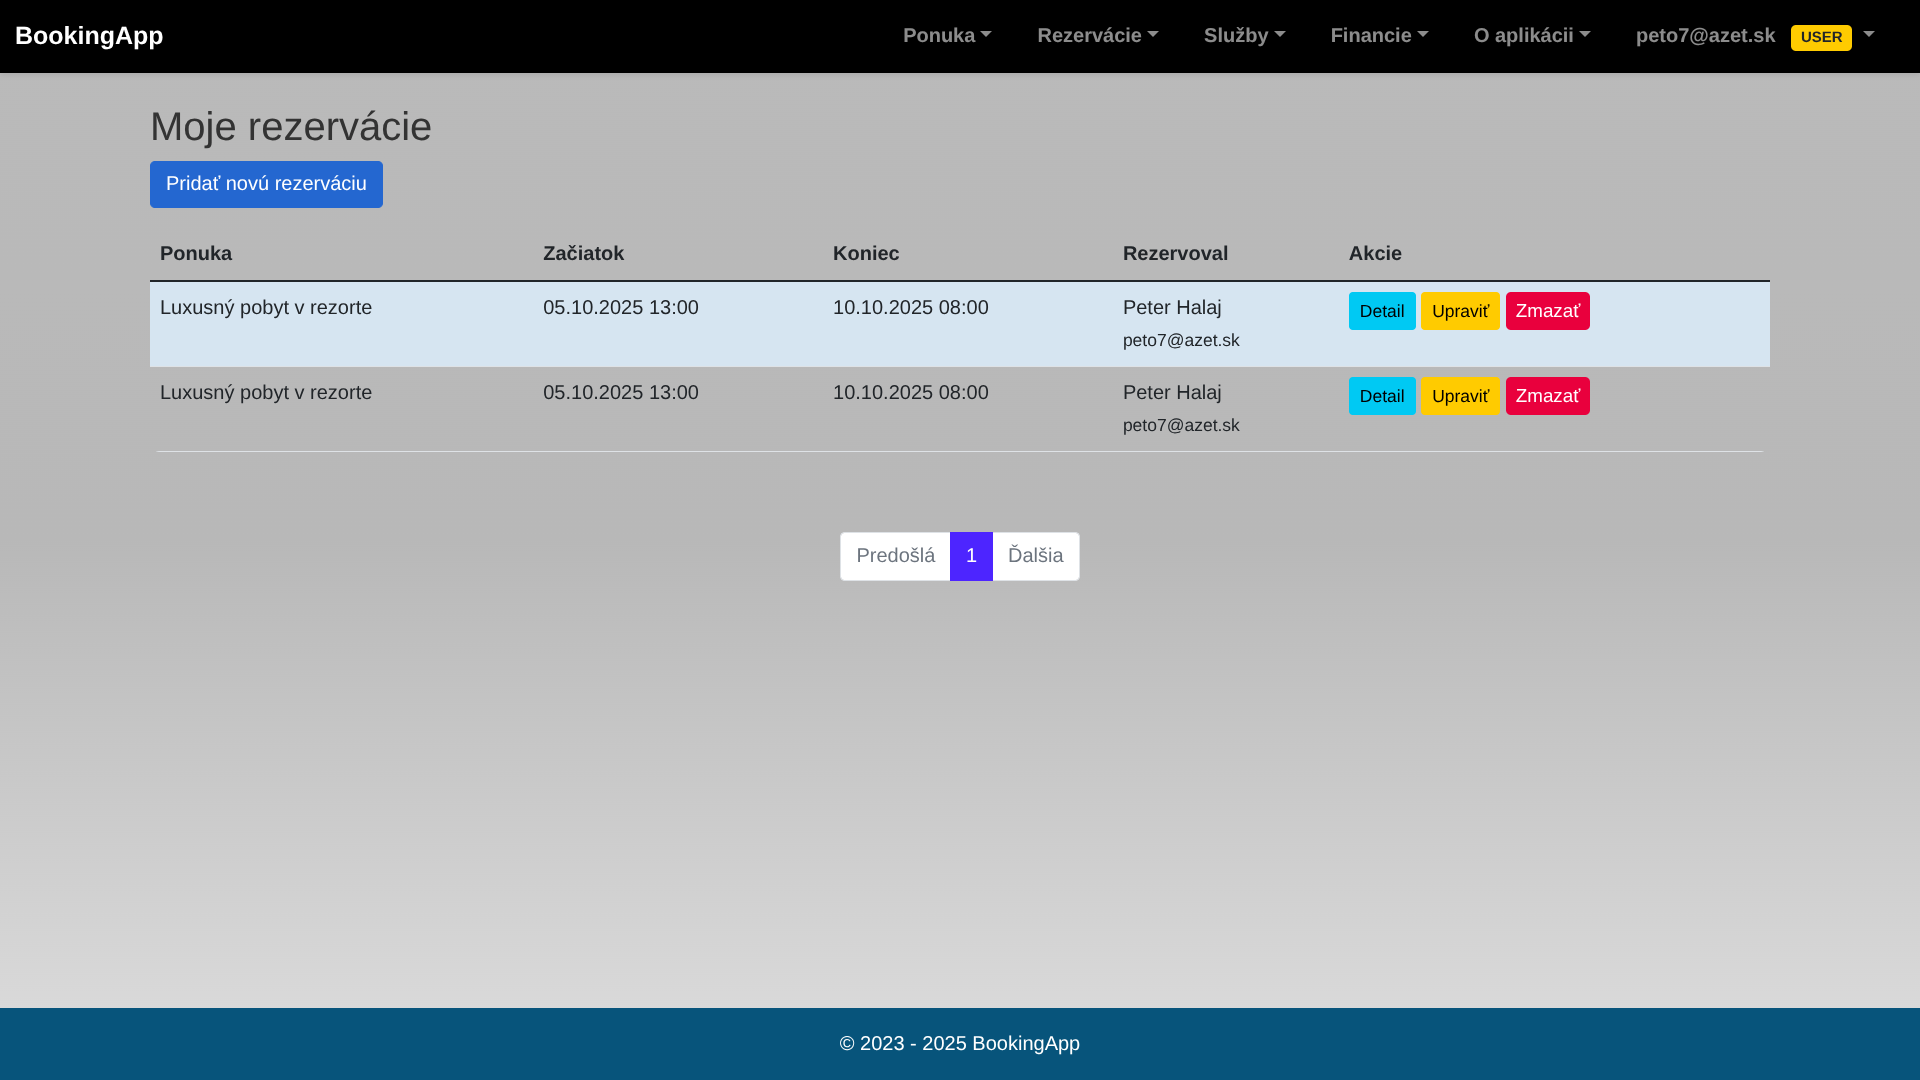
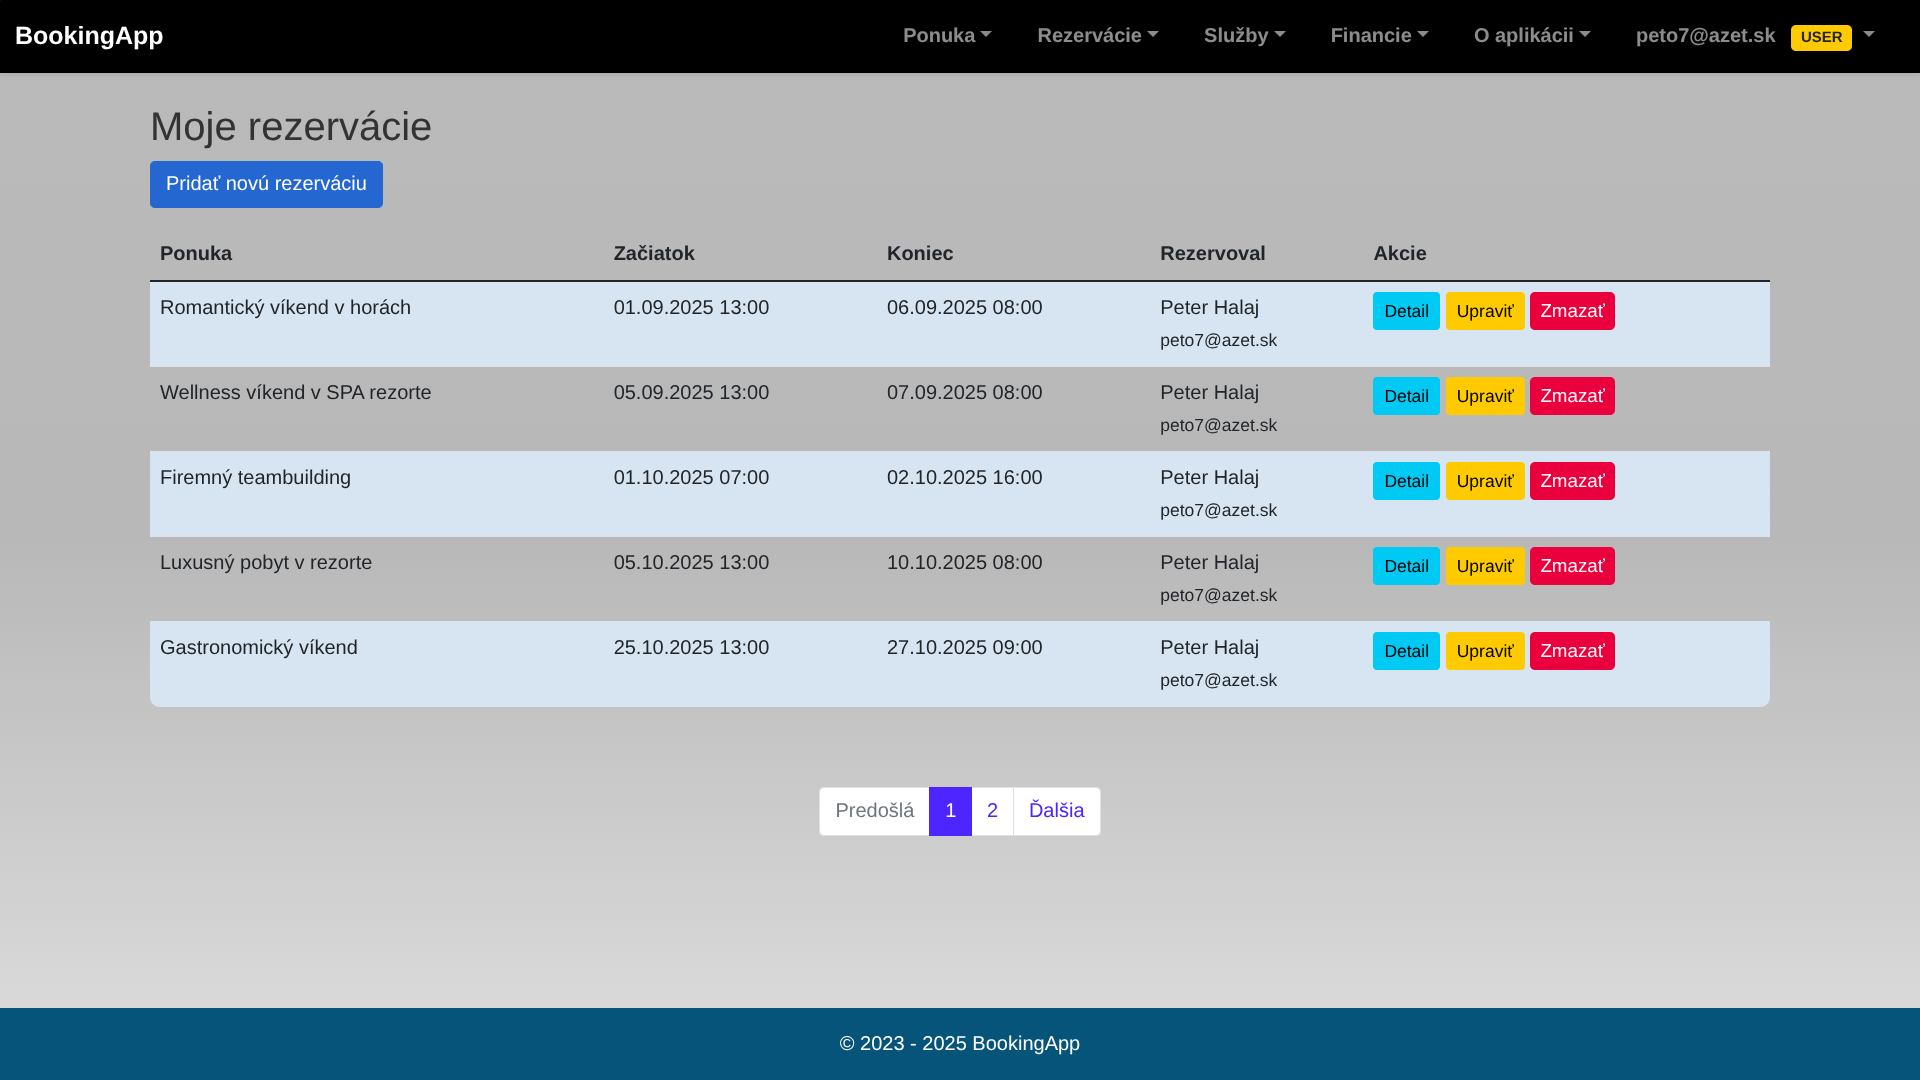
Update repositori

diff --git a/src/main/java/com/booking/app/data/repositories/ReservationRepository.java b/src/main/java/com/booking/app/data/repositories/ReservationRepository.java
@@ -64,3 +64,56 @@ public interface ReservationRepository extends JpaRepository<ReservationEntity, 
     List<ReservationEntity> findByUserId(Long userId);
     Page<ReservationEntity> findByUserId(Long userId, Pageable pageable);
 }
+public interface ReservationRepository extends JpaRepository<ReservationEntity, Long> {
+
+    @EntityGraph(attributePaths = {
+            "offer",
+            "offer.tags",
+            "user",
+            "additionalServices"
+    })
+    List<ReservationEntity> findByUser(UserEntity user);
+
+    @EntityGraph(attributePaths = {
+            "offer",
+            "offer.tags",
+            "user",
+            "additionalServices"
+    })
+    Page<ReservationEntity> findByUser(UserEntity user, Pageable pageable);
+
+    @EntityGraph(attributePaths = {
+            "offer",
+            "offer.tags",
+            "user",
+            "additionalServices"
+    })
+    Optional<ReservationEntity> findById(Long id);
+
+    @EntityGraph(attributePaths = {
+            "offer",
+            "offer.tags",
+            "user",
+            "additionalServices"
+    })
+    Page<ReservationEntity> findAll(Pageable pageable);
+
+    @EntityGraph(attributePaths = {
+            "offer",
+            "offer.tags",
+            "user",
+            "additionalServices"
+    })
+    List<ReservationEntity> findAll();
+
+    @EntityGraph(attributePaths = {
+            "offer",
+            "offer.tags",
+            "user",
+            "additionalServices"
+    })
+    Page<ReservationEntity> findAllByServiceType(ServiceType serviceType, Pageable pageable);
+
+    List<ReservationEntity> findByUserId(Long userId);
+    Page<ReservationEntity> findByUserId(Long userId, Pageable pageable);
+}

diff --git a/src/main/java/com/booking/app/models/services/ReservationServiceImpl.java b/src/main/java/com/booking/app/models/services/ReservationServiceImpl.java
@@ -148,6 +148,14 @@ public class ReservationServiceImpl implements ReservationService {
     }
 
     @Override
+    public List<ReservationDTO> findByUserEmail(String email) {
+        UserEntity user = getUserByEmail(email);
+        return reservationRepository.findByUser(user).stream()
+                .map(this::mapToDto)
+                .collect(Collectors.toList());
+    }
+
+    @Override
     public ReservationDTO prepareReservation(Long offerId, String userEmail) {
         OfferEntity offer = getOfferByIdInternal(offerId);
 
@@ -264,13 +272,5 @@ public class ReservationServiceImpl implements ReservationService {
             throw new SecurityException("Not authorized to delete this reservation.");
         }
         reservationRepository.deleteById(id);
-    }
-
-    @Override
-    public List<ReservationDTO> findByUserEmail(String email) {
-        UserEntity user = getUserByEmail(email);
-        return reservationRepository.findByUser(user).stream()
-                .map(this::mapToDto)
-                .collect(Collectors.toList());
     }
 }
